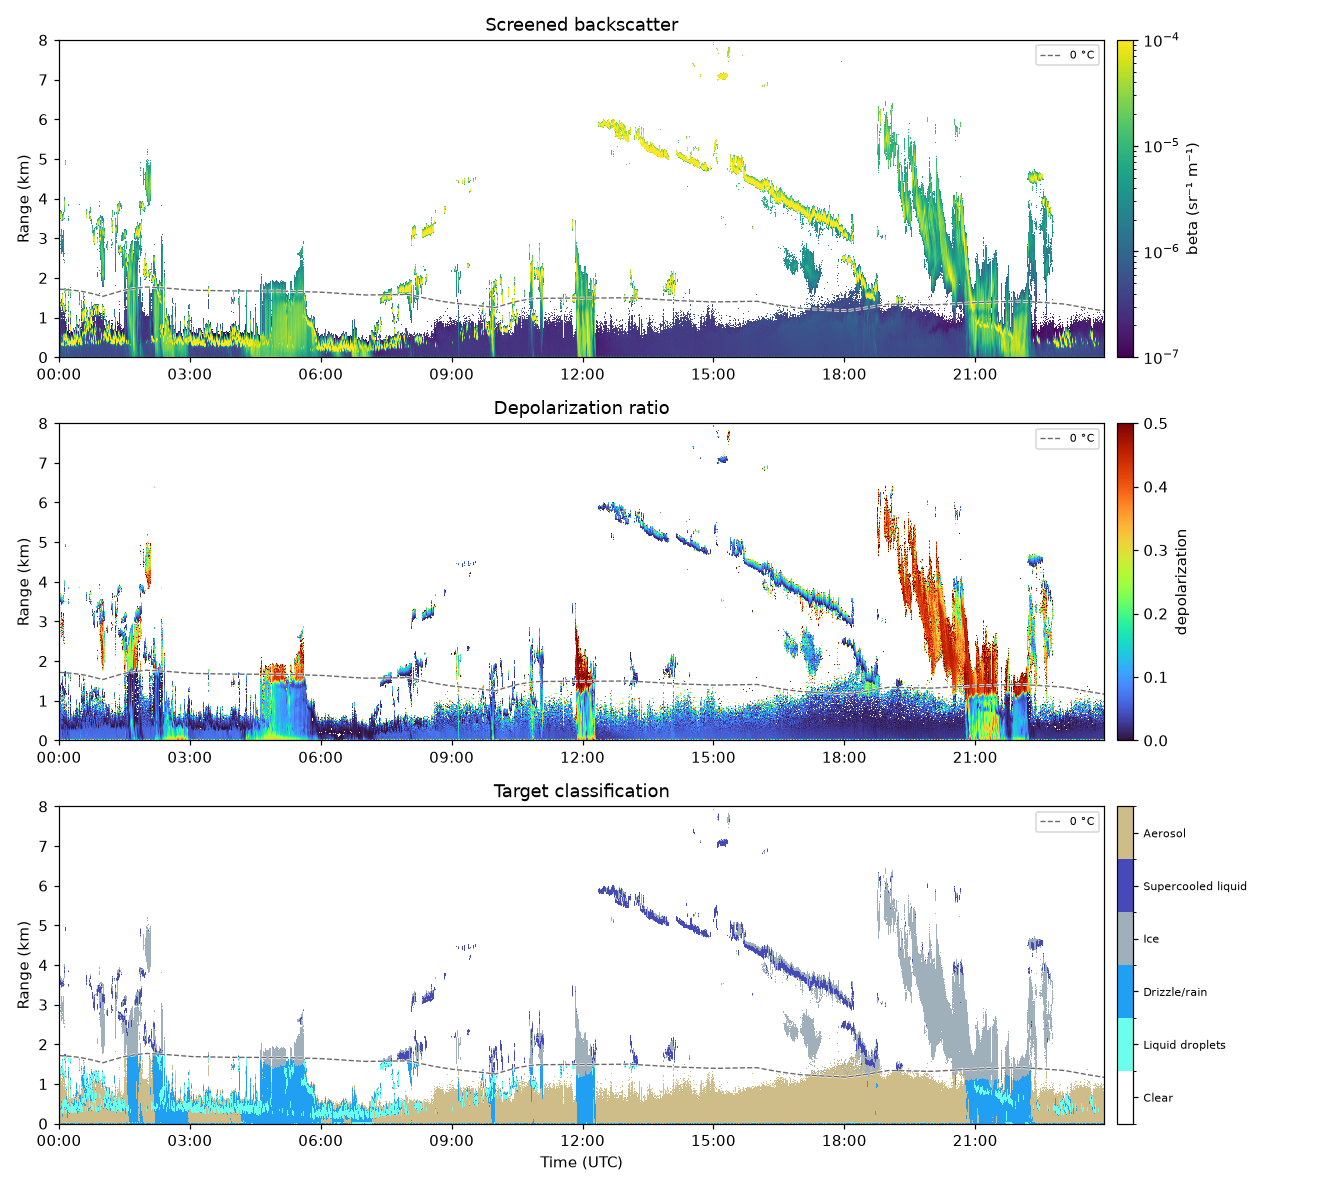
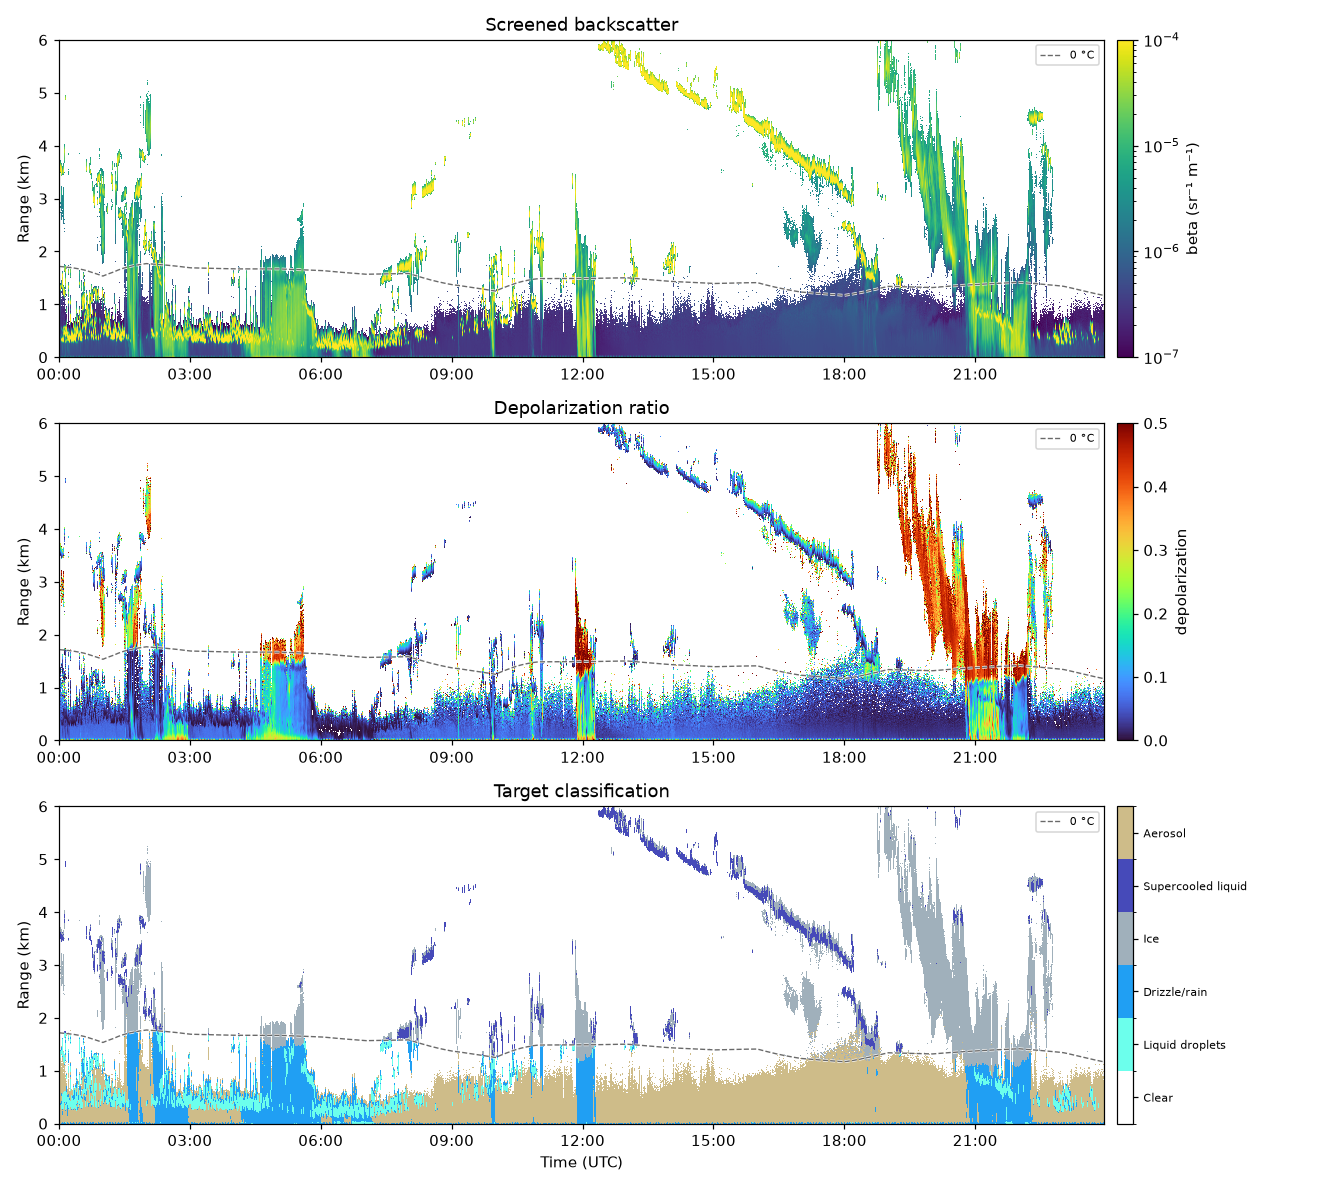
Regenerate README example plot at 6 km

diff --git a/README.md b/README.md
@@ -35,10 +35,10 @@ ceiloclass -i cl61 ceilo.nc -m model.nc --plot out.png
 ```
 
 Classify the CL61 lidar product at Kenttärova, averaging into
-30 s bins, using the HARMONIE model and showing the plot up to 8 km:
+30 s bins, using the HARMONIE model and showing the plot up to 6 km:
 
 ```sh
-ceiloclass -s kenttarova -d 2023-09-04 -a 30 --harmonized -i cl61 -m harmonie-fmi-6-11 --max-y 8 --show --no-histogram
+ceiloclass -s kenttarova -d 2023-09-04 -a 30 --harmonized -i cl61 -m harmonie-fmi-6-11 --max-y 6 --show --no-histogram
 ```
 
 ![Classification example for Kenttärova, 2023-09-04](docs/example_kenttarova.png)